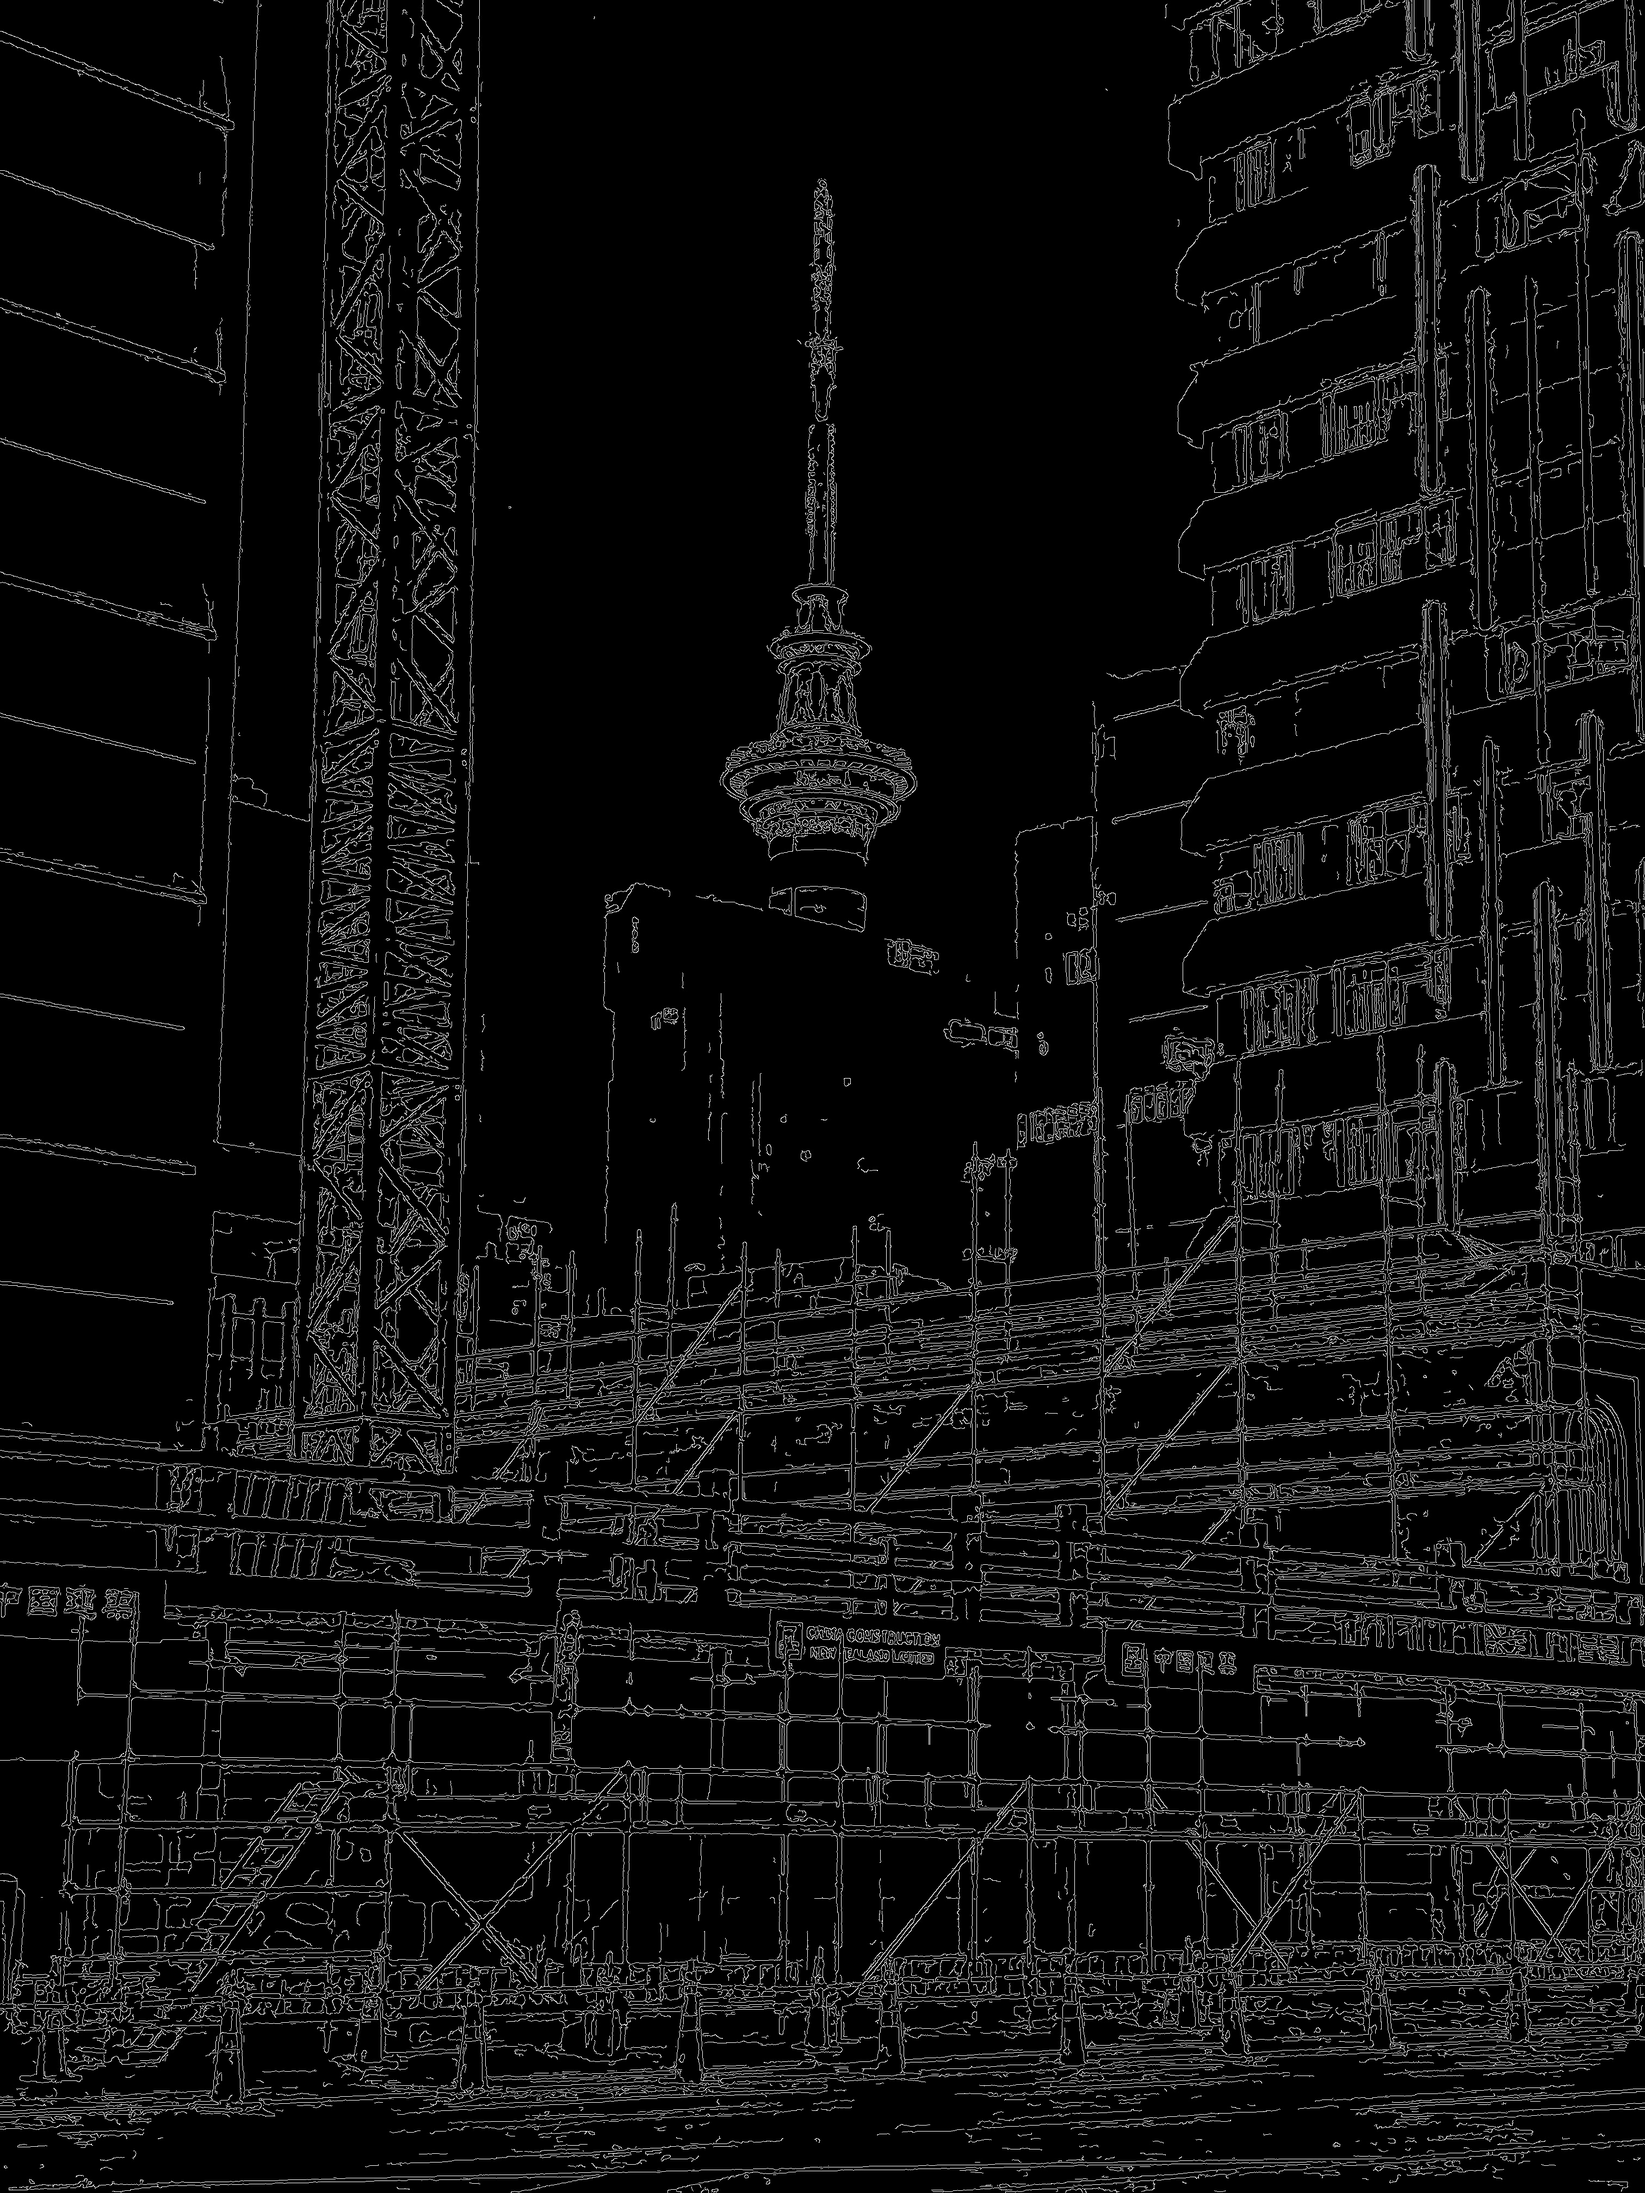
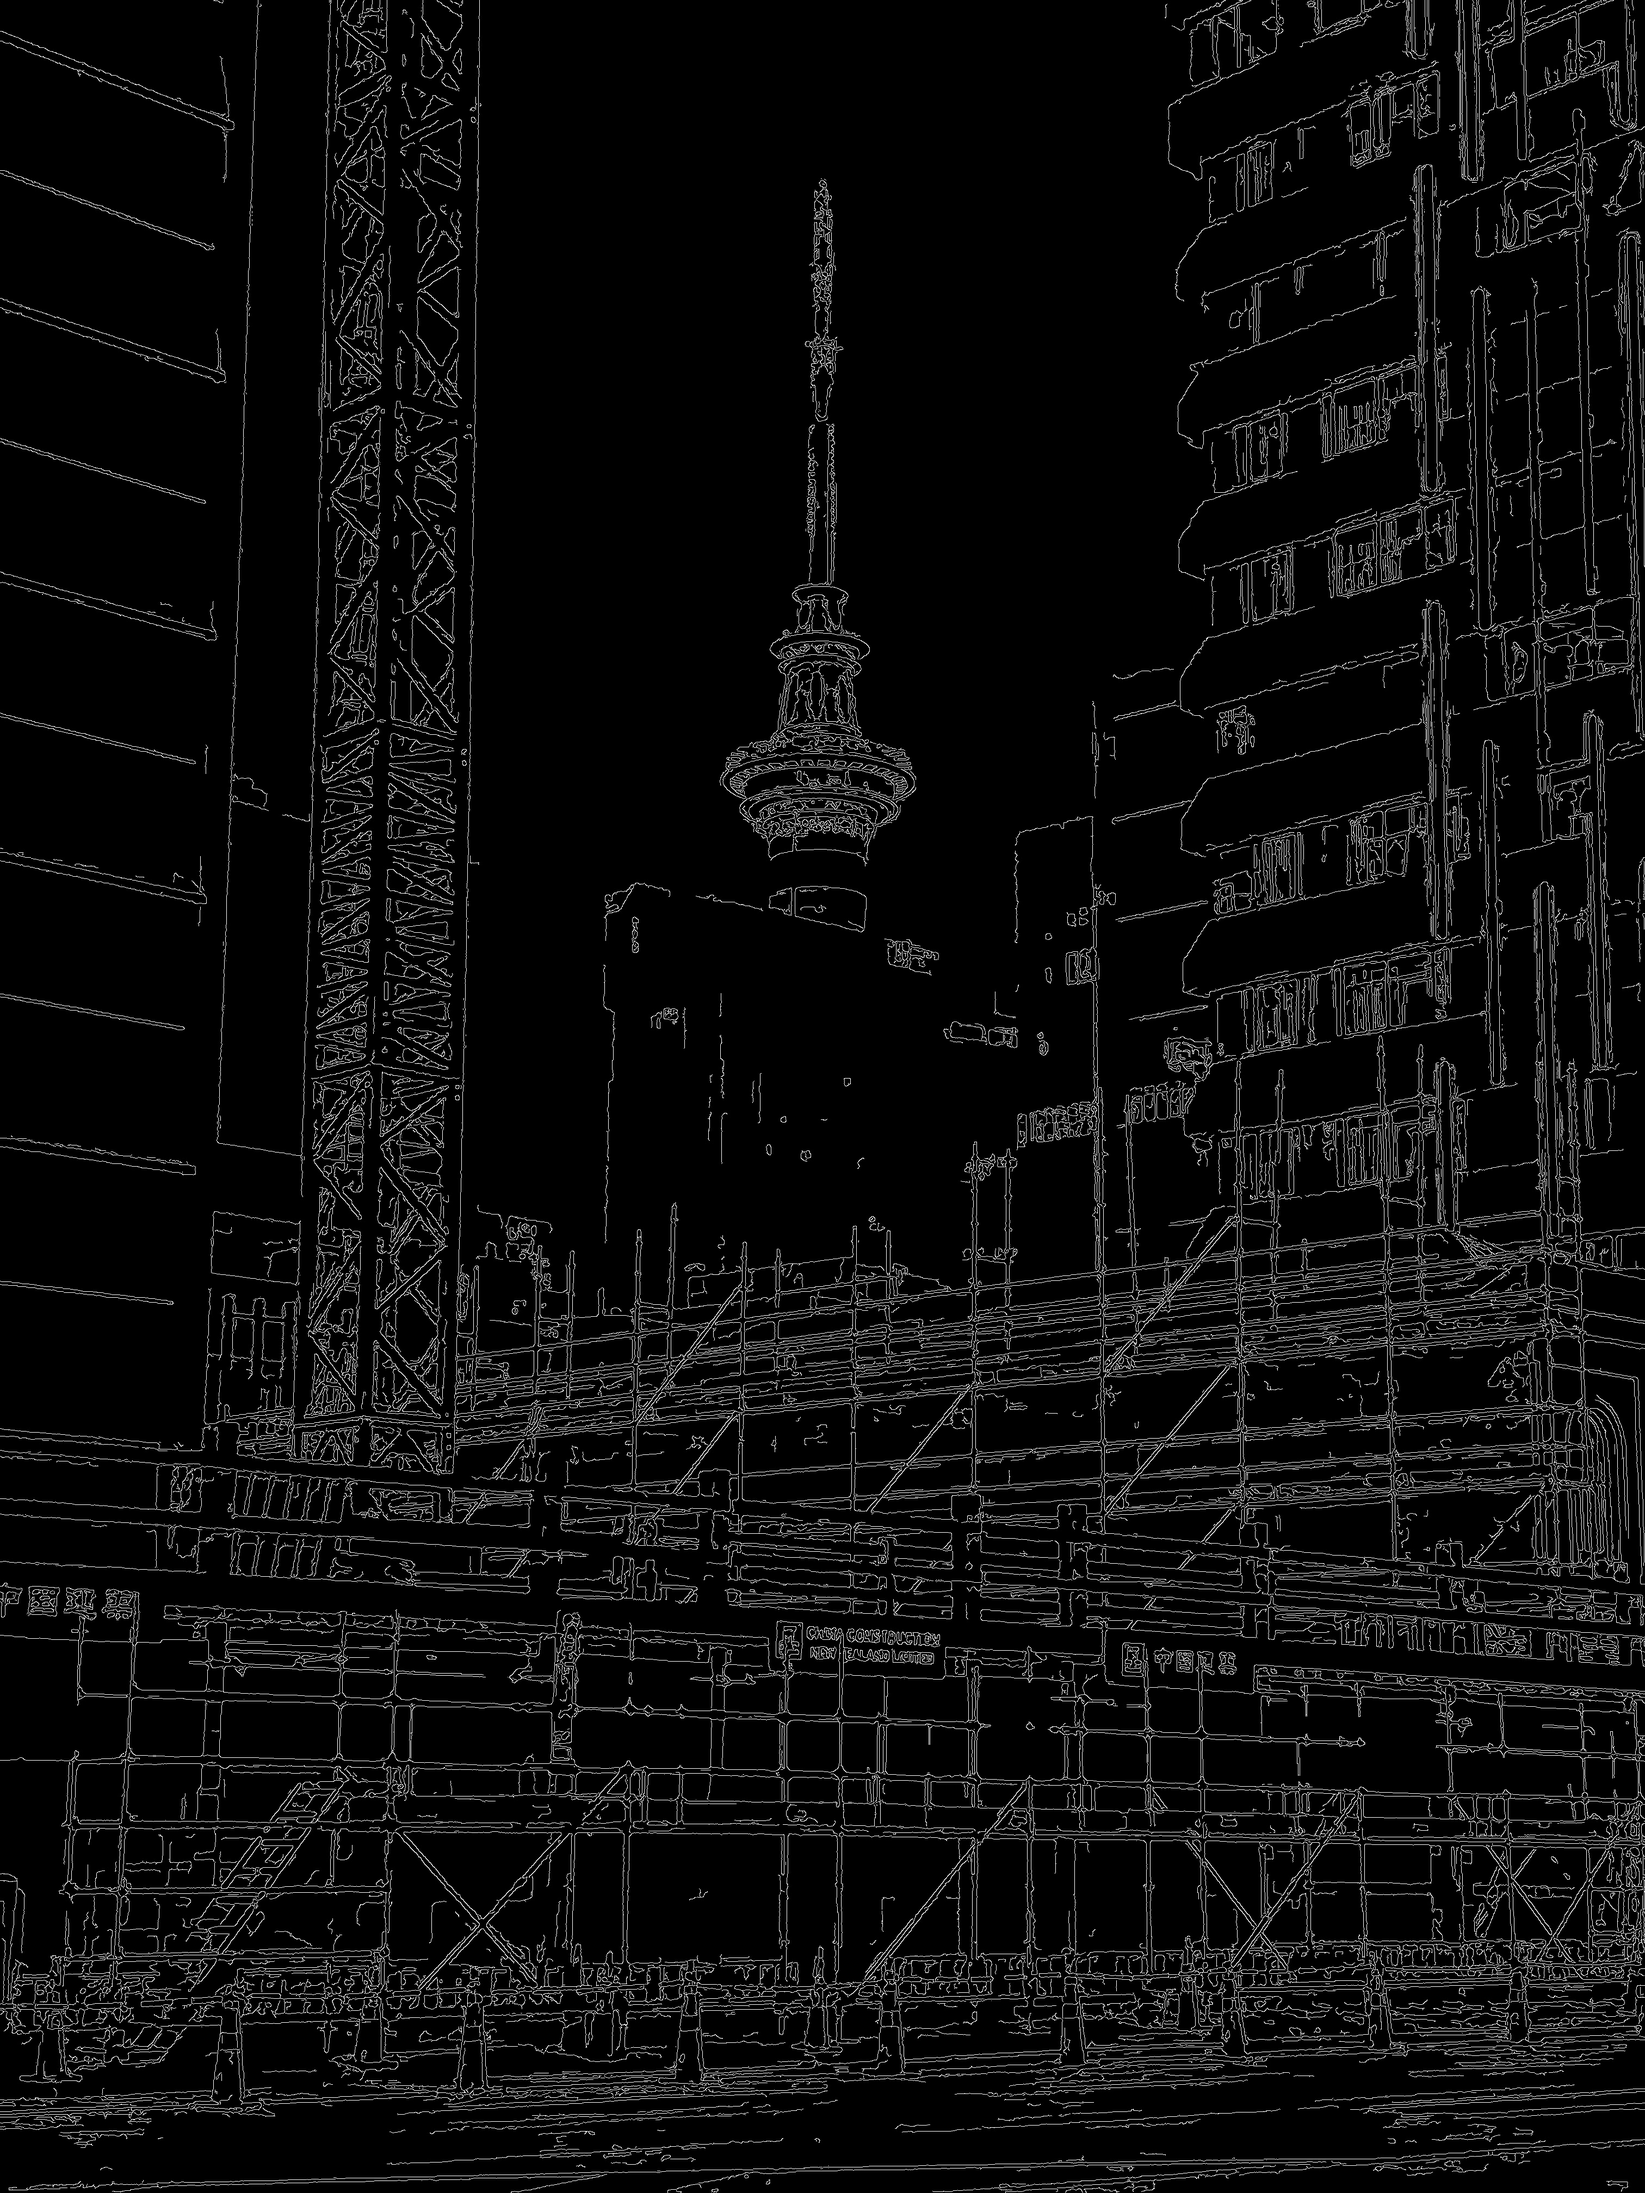
final

diff --git a/canny.py b/canny.py
@@ -214,7 +214,7 @@ def cannyPerformance(func):
 	print(f"Completion time: {round(time.time() - start_time,3)}")
 
 def canny():
-	imgpath = 'nztowerds.jpg' #original
+	imgpath = 'nztowerORI.jpg' #original
 	#imgpath = 'mount.JPG'
 	print("Grayscaling...")
 	grayimg = grayscale(cv2.imread(imgpath)) #grayscale
@@ -233,20 +233,13 @@ def canny():
 def cv2Canny():
 	imgpath = 'nztowerORI.jpg'
 	img = cv2.imread(imgpath)
-	edges = cv2.Canny(img,50,100)
+	edges = cv2.Canny(img,50,125)
 	cv2.imwrite("cv2Canny.jpg",edges)
 
 def start():
-	#cv2Canny()
-	#img = cv2.cvtColor(cv2.imread(imgpath),cv2.COLOR_BGR2GRAY)
-	canny()
 	#cannyPerformance(canny())
-	#imgpath = 'sobelNMS.jpg'
-	#img = cv2.imread(imgpath)
-	#img = cv2.cvtColor(img,cv2.COLOR_BGR2GRAY)
-	#thresh = doublethresh(img)
-	#hysteresis(thresh)
-	
+	cv2Canny()
+
 if __name__ == "__main__":
 	start()
 
